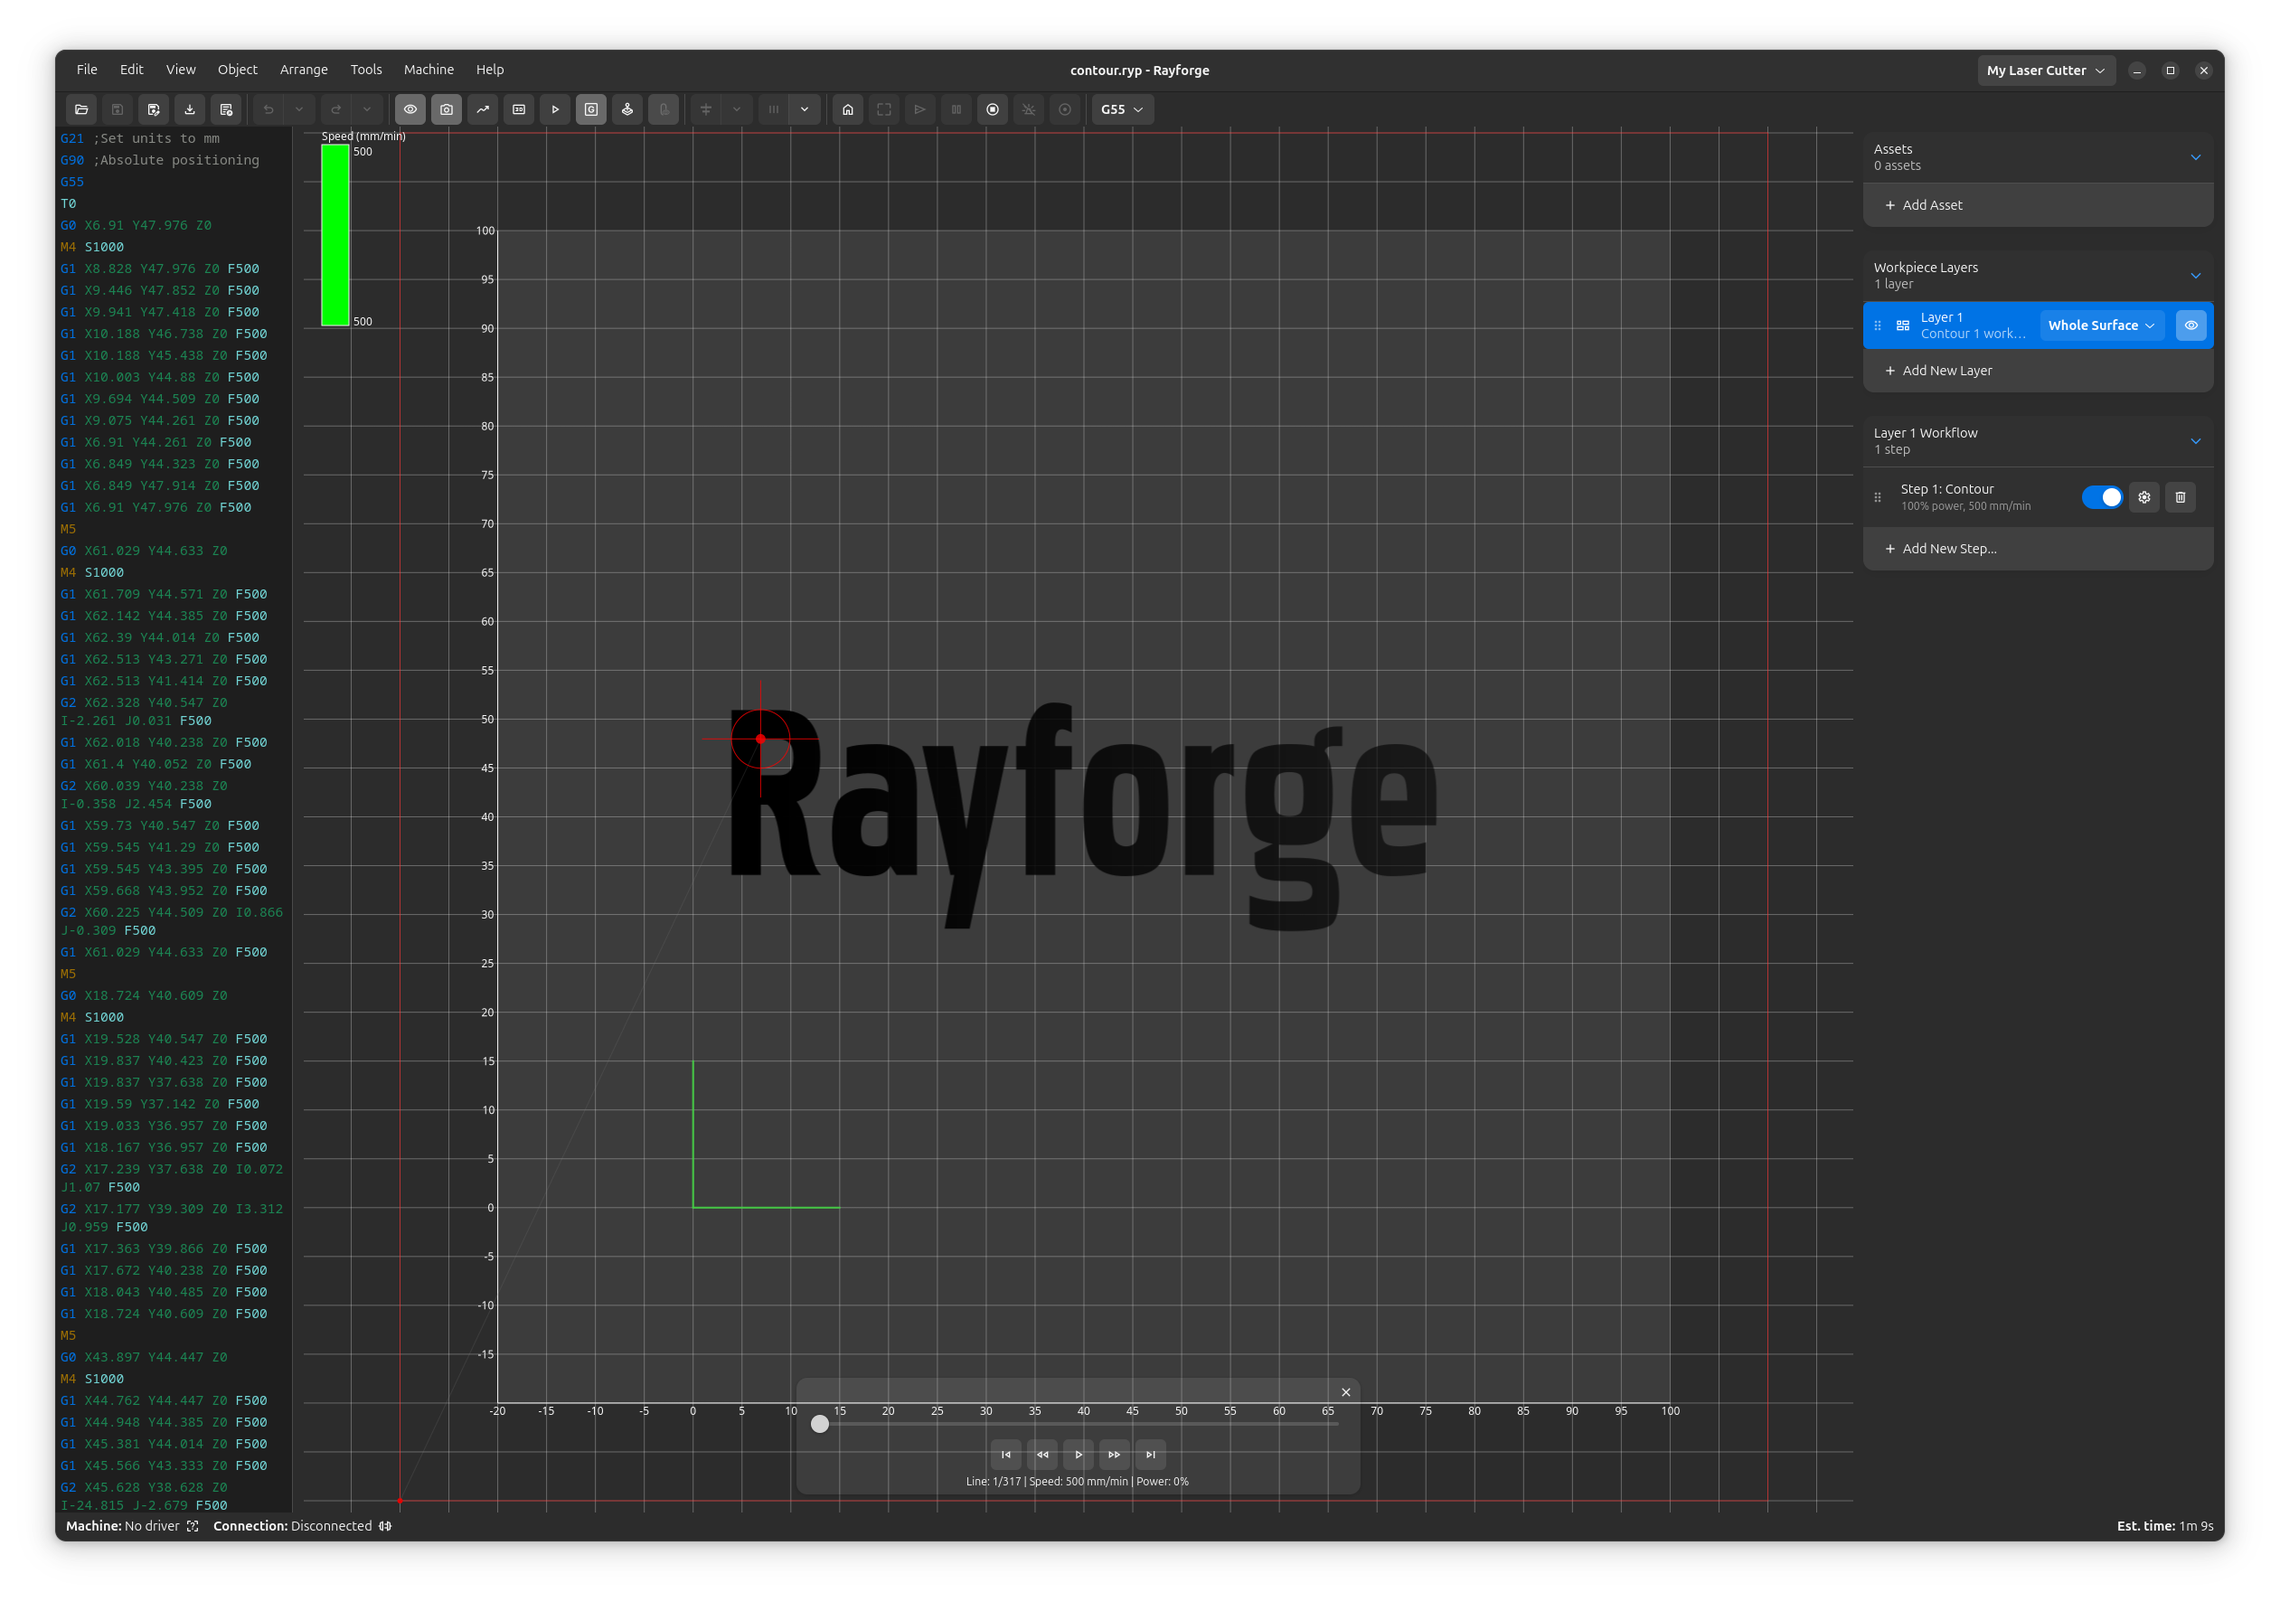
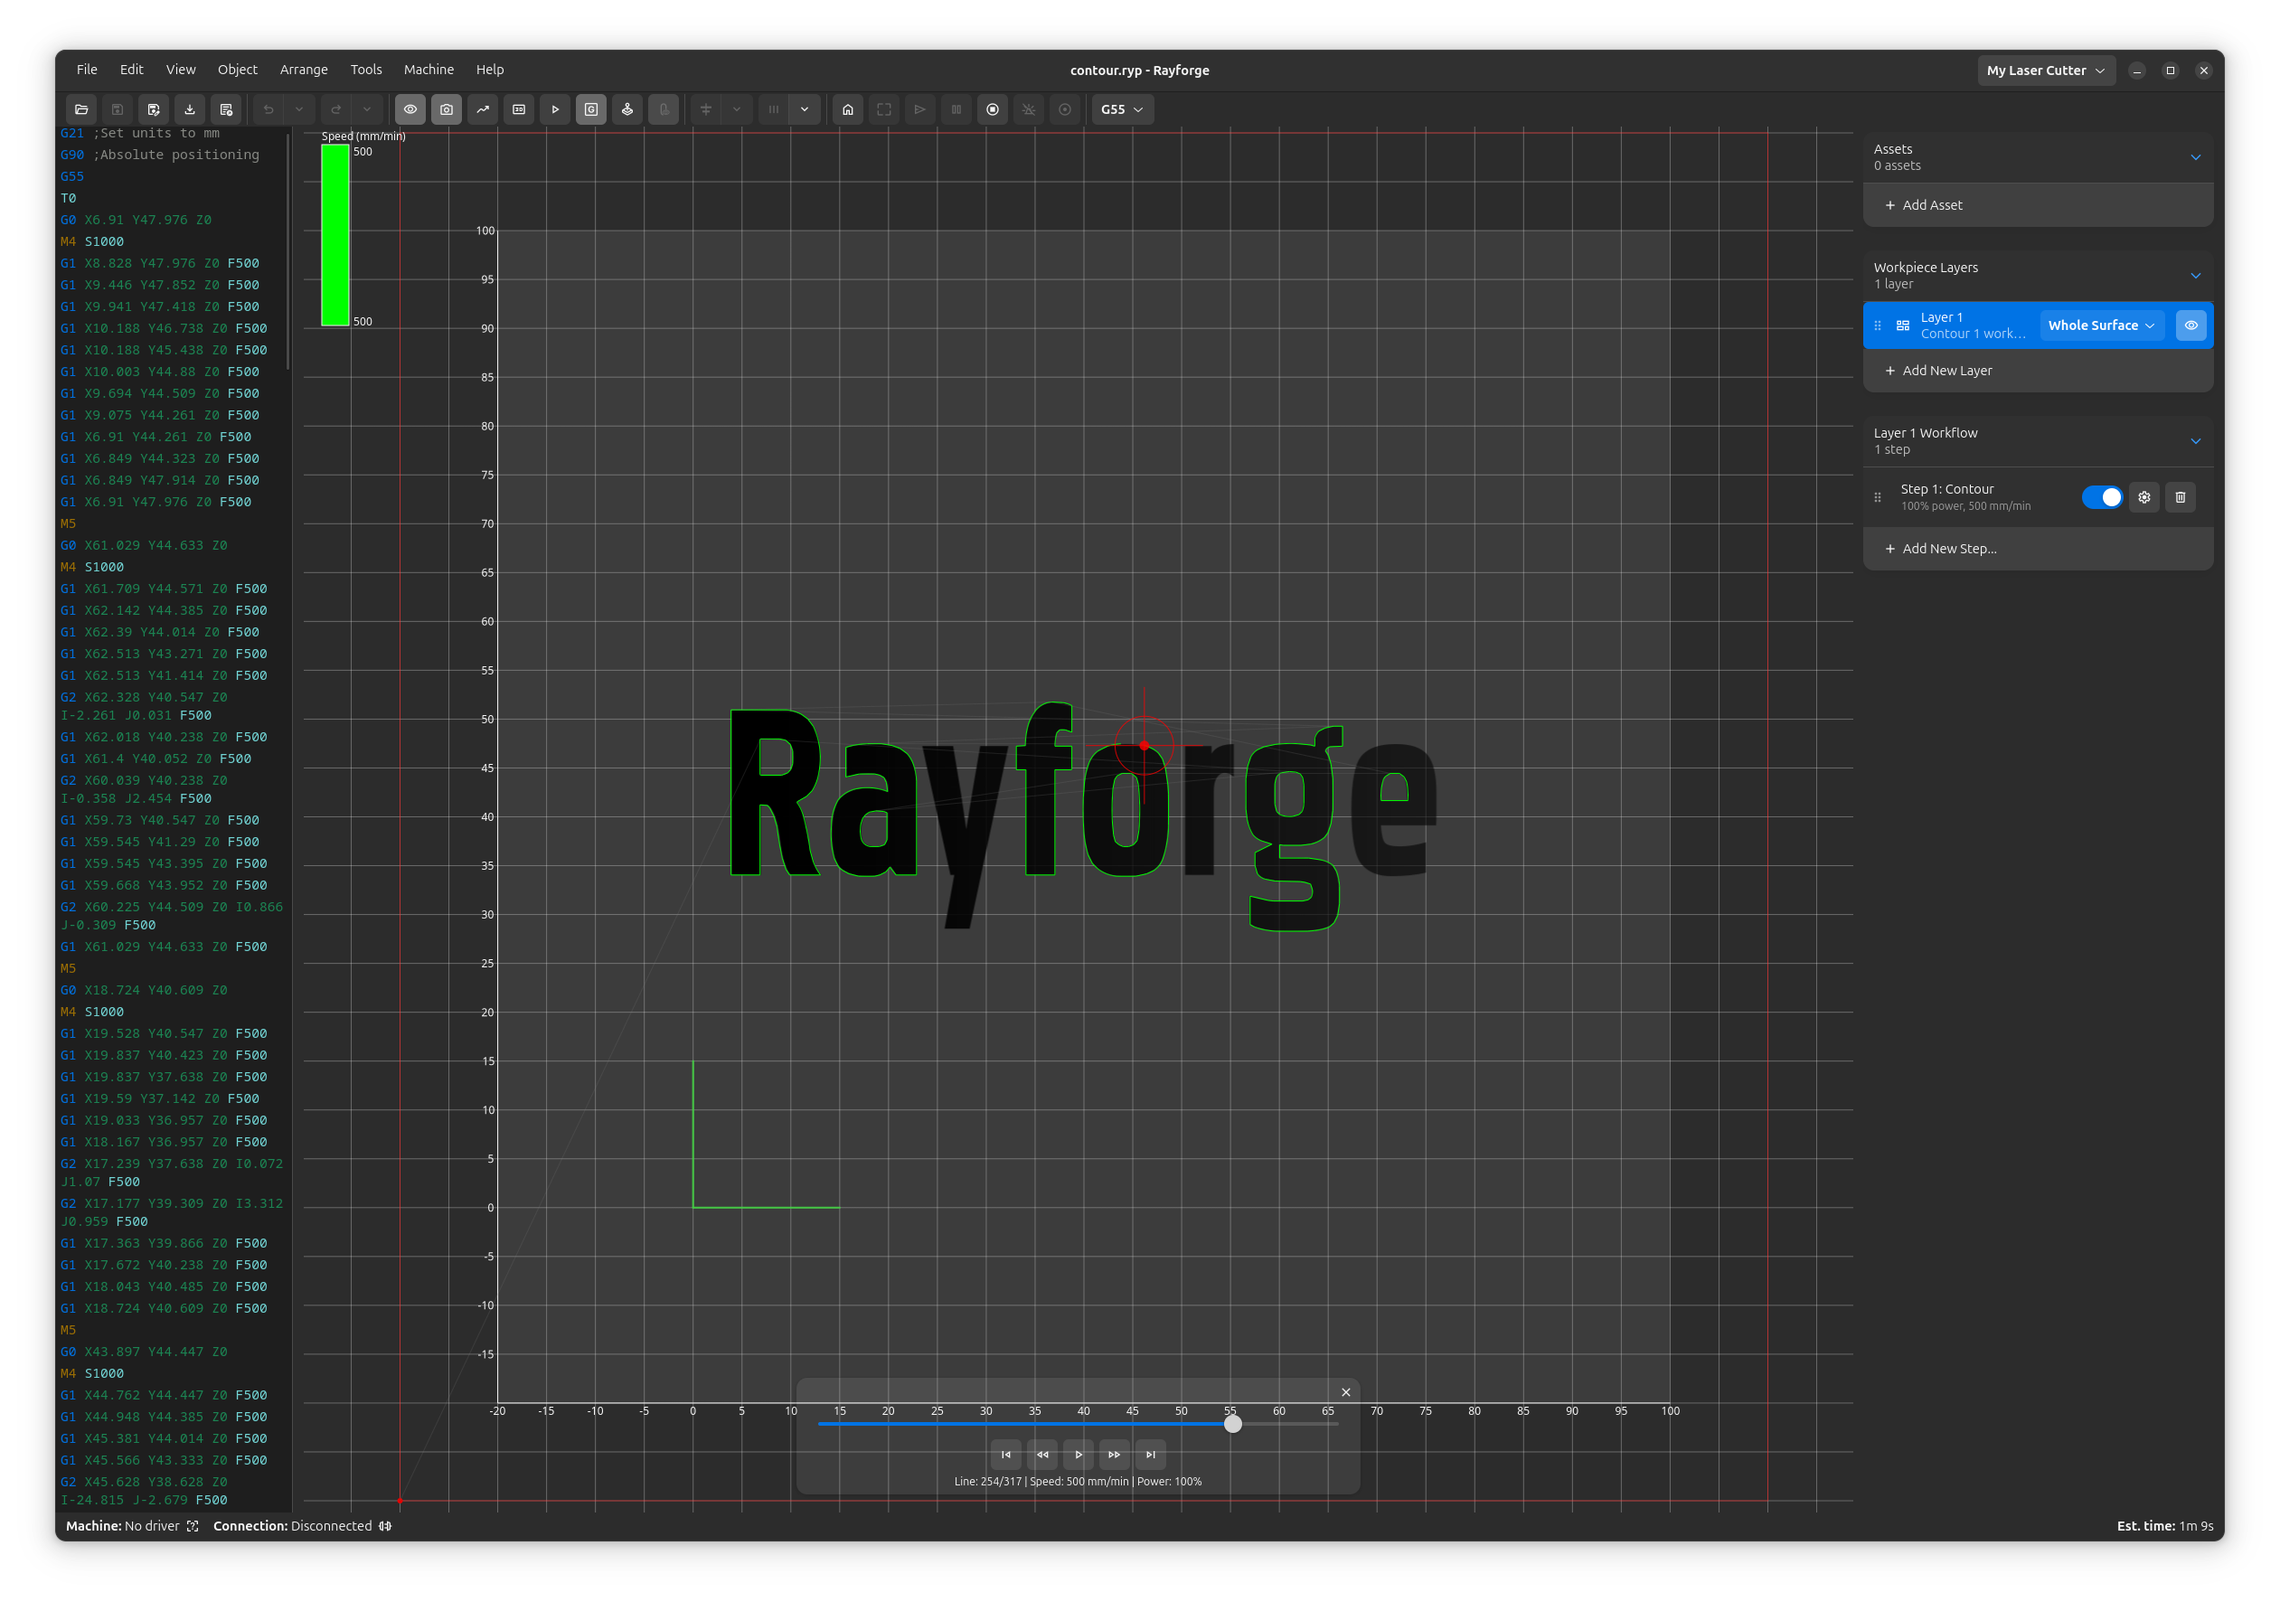
simulation mode preserves position; improve simulation screenshot

diff --git a/scripts/screenshot/main_simulation.py b/scripts/screenshot/main_simulation.py
@@ -7,23 +7,115 @@ Usage: pixi run screenshot main:simulation
 
 import time
 import logging
+from gi.repository import GLib
 from rayforge.uiscript import app, win
 from utils import (
     load_project,
     wait_for_settled,
     show_panel,
     hide_panel,
-    activate_simulation_mode,
     save_panel_states,
     restore_panel_states,
     take_screenshot,
     clear_window_subtitle,
     set_window_size,
+    run_on_main_thread,
 )
 
 logger = logging.getLogger(__name__)
 
 PANELS = ["toggle_control_panel", "toggle_gcode_preview"]
+
+
+def _wait_for_simulation_components(timeout: int = 10) -> bool:
+    """Wait for simulation components to be initialized and ops loaded."""
+
+    def get_step_count():
+        overlay = win.simulator_cmd.simulation_overlay
+        return overlay.timeline.get_step_count() if overlay else 0
+
+    for i in range(timeout):
+        overlay = run_on_main_thread(
+            lambda: win.simulator_cmd.simulation_overlay
+        )
+        if overlay:
+            count = run_on_main_thread(get_step_count)
+            if count > 0:
+                logger.info("Simulation components initialized with ops")
+                time.sleep(0.5)
+                return True
+            logger.info(
+                f"Simulation overlay ready, waiting for ops... ({i + 1}s)"
+            )
+        else:
+            logger.info(f"Waiting for simulation components... ({i + 1}s)")
+        time.sleep(1)
+
+    logger.warning("Simulation components not initialized")
+    return False
+
+
+def activate_simulation_mode() -> bool:
+    """
+    Activate simulation mode.
+
+    Returns:
+        True if activation was successful.
+    """
+
+    def _activate() -> None:
+        action = win.action_manager.get_action("simulate_mode")
+        action.set_state(GLib.Variant.new_boolean(False))
+        action.activate(GLib.Variant.new_boolean(True))
+
+    run_on_main_thread(_activate)
+    logger.info("Simulation mode activated")
+
+    time.sleep(2)
+
+    is_sim = run_on_main_thread(lambda: win.surface.is_simulation_mode())
+    if is_sim:
+        return _wait_for_simulation_components()
+
+    if win.simulator_cmd:
+        run_on_main_thread(lambda: win.simulator_cmd._enter_mode())
+        return _wait_for_simulation_components()
+
+    return False
+
+
+def advance_simulation(fraction: float = 0.8) -> bool:
+    """
+    Advance the simulation to a given fraction of the job (0.0 to 1.0).
+
+    Args:
+        fraction: How far into the job to advance (default 80%).
+
+    Returns:
+        True if successful.
+    """
+    if not win.simulator_cmd or not win.simulator_cmd.preview_controls:
+        logger.warning("Simulation controls not available")
+        return False
+
+    preview_controls = win.simulator_cmd.preview_controls
+
+    def _advance() -> bool:
+        num_lines = preview_controls.num_gcode_lines
+        if num_lines <= 0:
+            logger.warning("No G-code lines in simulation")
+            return False
+        target_line = int(num_lines * fraction)
+        preview_controls.set_playback_position(target_line)
+        logger.info(
+            f"Advanced simulation to line {target_line}/{num_lines} "
+            f"({fraction * 100:.0f}%)"
+        )
+        return True
+
+    result = run_on_main_thread(_advance)
+    time.sleep(0.25)
+    return result
 
 
 def main():
@@ -39,10 +131,12 @@ def main():
 
     logger.info("Setting up simulation mode")
 
-    if not activate_simulation_mode(win):
+    if not activate_simulation_mode():
         logger.error("Failed to activate simulation mode")
         app.quit_idle()
         return
+
+    advance_simulation(fraction=0.8)
 
     saved_states = save_panel_states(win, PANELS)
     hide_panel(win, "toggle_control_panel")

diff --git a/scripts/screenshot/utils.py b/scripts/screenshot/utils.py
@@ -343,54 +343,6 @@ def restore_panel_states(win: "MainWindow", states: dict[str, bool]) -> None:
         show_panel(win, name, visible)
 
 
-def activate_simulation_mode(win: "MainWindow") -> bool:
-    """
-    Activate simulation mode.
-
-    Returns:
-        True if activation was successful.
-    """
-
-    def _activate() -> None:
-        action = win.action_manager.get_action("simulate_mode")
-        action.set_state(GLib.Variant.new_boolean(False))
-        action.activate(GLib.Variant.new_boolean(True))
-
-    run_on_main_thread(_activate)
-    logger.info("Simulation mode activated")
-
-    time.sleep(2)
-
-    is_sim = run_on_main_thread(lambda: win.surface.is_simulation_mode())
-    if is_sim:
-        return _wait_for_simulation_components(win)
-
-    if win.simulator_cmd:
-        run_on_main_thread(lambda: win.simulator_cmd._enter_mode())
-        return _wait_for_simulation_components(win)
-
-    return False
-
-
-def _wait_for_simulation_components(
-    win: "MainWindow", timeout: int = 10
-) -> bool:
-    """Wait for simulation components to be initialized."""
-    for i in range(timeout):
-        overlay = run_on_main_thread(
-            lambda: win.simulator_cmd.simulation_overlay
-        )
-        if overlay:
-            logger.info("Simulation components initialized")
-            time.sleep(1)
-            return True
-        logger.info(f"Waiting for simulation components... ({i + 1}s)")
-        time.sleep(1)
-
-    logger.warning("Simulation components not initialized")
-    return False
-
-
 def open_machine_settings(
     win: "MainWindow", page: str = "general"
 ) -> "MachineSettingsDialog":

diff --git a/rayforge/ui_gtk/canvas2d/simulator_cmd.py b/rayforge/ui_gtk/canvas2d/simulator_cmd.py
@@ -50,6 +50,7 @@ class SimulatorCmd:
     def reload_simulation(self, new_artifact: Optional[JobArtifact]):
         """
         Reloads the simulation with a new, final job artifact.
+        Preserves the current playback position if user has moved it.
         """
         if not self.simulation_overlay or not self.preview_controls:
             return
@@ -57,6 +58,9 @@ class SimulatorCmd:
         logger.debug("Reloading simulation with new artifact.")
 
         was_playing = self.preview_controls.playing
+        # Preserve current position if user has moved the slider
+        current_pos = self.preview_controls.slider.get_value()
+        preserve_position = current_pos > 0
 
         if new_artifact:
             assert isinstance(new_artifact, JobArtifact)
@@ -72,6 +76,10 @@ class SimulatorCmd:
             self.preview_controls.set_playback_source(None, None)
 
         self.preview_controls.reset()
+        if preserve_position:
+            # Restore position after reset (clamped to new max)
+            max_pos = max(0, self.preview_controls.num_gcode_lines - 1)
+            self.preview_controls.slider.set_value(min(current_pos, max_pos))
         if was_playing:
             self.preview_controls._start_playback()
 
